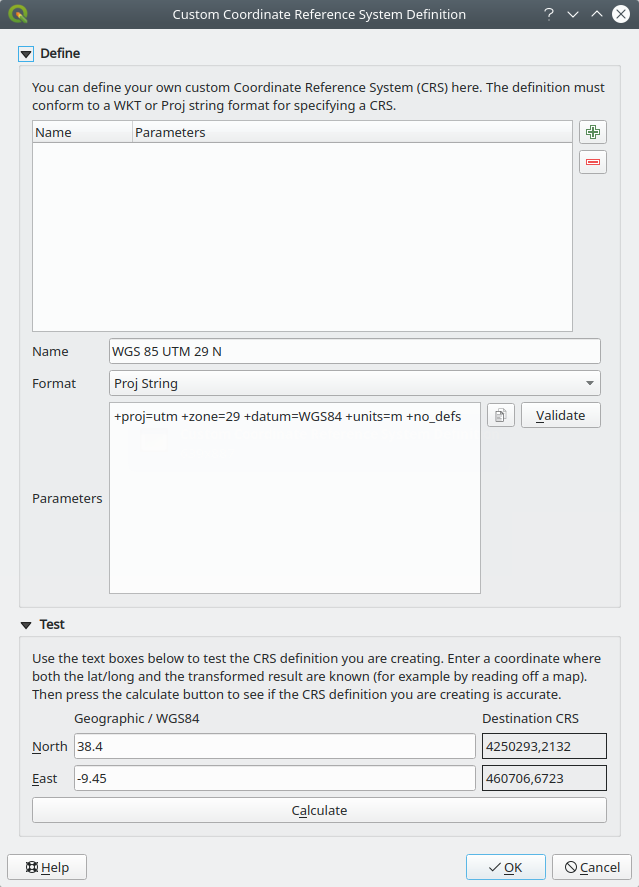
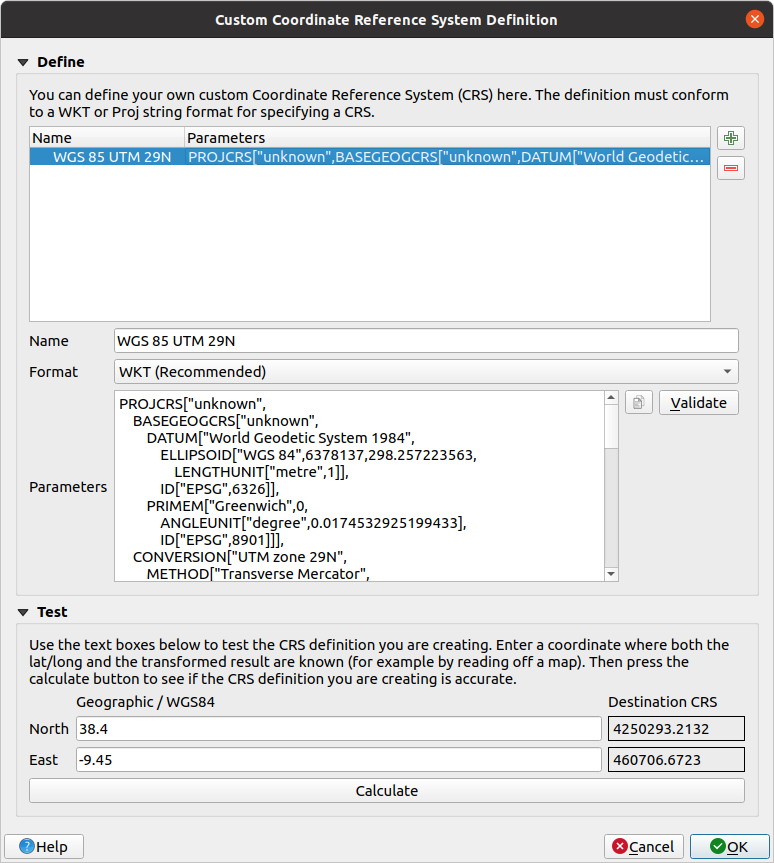
Update the Custom Projection description
and lessons (fixes #6043)

diff --git a/docs/user_manual/working_with_projections/working_with_projections.rst b/docs/user_manual/working_with_projections/working_with_projections.rst
@@ -246,14 +246,6 @@ define a custom CRS. To define a CRS, select |customProjection|
 are stored in your QGIS user database. In addition to your custom CRSs, this
 database also contains your spatial bookmarks and other custom data.
 
-.. _figure_projection_custom:
-
-.. figure:: img/customProjectionDialog.png
-   :align: center
-
-   Custom CRS Dialog
-
-
 Defining a custom CRS in QGIS requires a good understanding of the PROJ
 projection library. To begin, refer to "Cartographic Projection Procedures
 for the UNIX Environment - A User's Manual" by Gerald I. Evenden, U.S.
@@ -270,11 +262,31 @@ only two parameters to define a user CRS:
 #. A descriptive name
 #. The cartographic parameters in PROJ or WKT format
 
-To create a new CRS, click the |signPlus| :sup:`Add new CRS` button,
-enter a descriptive name, select the format, and the CRS parameters.
+To create a new CRS:
 
-Click :guilabel:`Validate` to test whether the CRS definition is an acceptable
-projection definition.
+#. Click the |signPlus| :sup:`Add new CRS` button
+#. Enter a descriptive name
+#. Select the format: it can be :guilabel:`Proj String` or :guilabel:`WKT`
+#. Add the CRS :guilabel:`Parameters`.
+
+   .. note:: **Prefer storing the CRS definition in WKT format**
+
+    Although both ``Proj String`` and ``WKT`` formats are supported, it's
+    highly recommended to store projection definitions in the WKT format.
+    Therefore, if the available definition is in the proj format, select that
+    format, enter the parameters and then switch to WKT format.
+    QGIS will convert the definition to the WKT format that you can later save.
+
+#. Click :guilabel:`Validate` to test whether the CRS definition is an acceptable
+   projection definition.
+
+.. _figure_projection_custom:
+
+.. figure:: img/customProjectionDialog.png
+   :align: center
+
+   Custom CRS Dialog
+
 
 You can test your CRS parameters to see if they give sane results. To do this,
 enter known WGS 84 latitude and longitude values in :guilabel:`North` and

diff --git a/docs/training_manual/vector_analysis/reproject_transform.rst b/docs/training_manual/vector_analysis/reproject_transform.rst
@@ -168,16 +168,45 @@ You can also create your own projections.
    This projection represents the Earth on a circular field instead of
    a rectangular one, as most other projections do.
 
+#. In :guilabel:`Format`, select :guilabel:`WKT (Recommended)`
 #. Add the following string in the :guilabel:`Parameters` field::
 
-     +proj=vandg +lon_0=0 +x_0=0 +y_0=0 +R_A +a=6371000 +b=6371000 +units=m +no_defs
+    PROJCRS["unknown",
+        BASEGEOGCRS["unknown",
+            DATUM["unknown",
+                ELLIPSOID["unknown",6371000,0,
+                    LENGTHUNIT["metre",1,
+                        ID["EPSG",9001]]]],
+            PRIMEM["Greenwich",0,
+                ANGLEUNIT["degree",0.0174532925199433],
+                ID["EPSG",8901]]],
+        CONVERSION["unknown",
+            METHOD["Van Der Grinten"],
+            PARAMETER["Longitude of natural origin",0,
+                ANGLEUNIT["degree",0.0174532925199433],
+                ID["EPSG",8802]],
+            PARAMETER["False easting",0,
+                LENGTHUNIT["metre",1],
+                ID["EPSG",8806]],
+            PARAMETER["False northing",0,
+                LENGTHUNIT["metre",1],
+                ID["EPSG",8807]]],
+        CS[Cartesian,2],
+            AXIS["(E)",east,
+                ORDER[1],
+                LENGTHUNIT["metre",1,
+                    ID["EPSG",9001]]],
+            AXIS["(N)",north,
+                ORDER[2],
+                LENGTHUNIT["metre",1,
+                    ID["EPSG",9001]]]]
 
    .. figure:: img/new_crs_parameters.png
       :align: center
 
 #. Click :guilabel:`OK`
-#. Click on the |projectionEnabled| :sup:`Current CRS` button to
-   change the project CRS
+#. Click on the |projectionEnabled| :sup:`Current CRS` button at the
+   right of the status bar to change the project CRS
 #. Choose your newly defined projection (search for its name in the
    :guilabel:`Filter` field)
 #. On applying this projection, the map will be reprojected thus:

diff --git a/docs/training_manual/online_resources/wms.rst b/docs/training_manual/online_resources/wms.rst
@@ -91,7 +91,7 @@ symbology:
       Mercator`.
 
       #. Enter the value ``pseudo`` in the :guilabel:`Filter` field:
-      #. Choose :guilabel:`WGS 84 / Pseudo Mercator` from the list.
+      #. Choose :guilabel:`WGS 84 / Pseudo Mercator` (with epsg:3857) from the list.
 
          .. figure:: img/pseudo_mercator_selected.png
             :align: center
